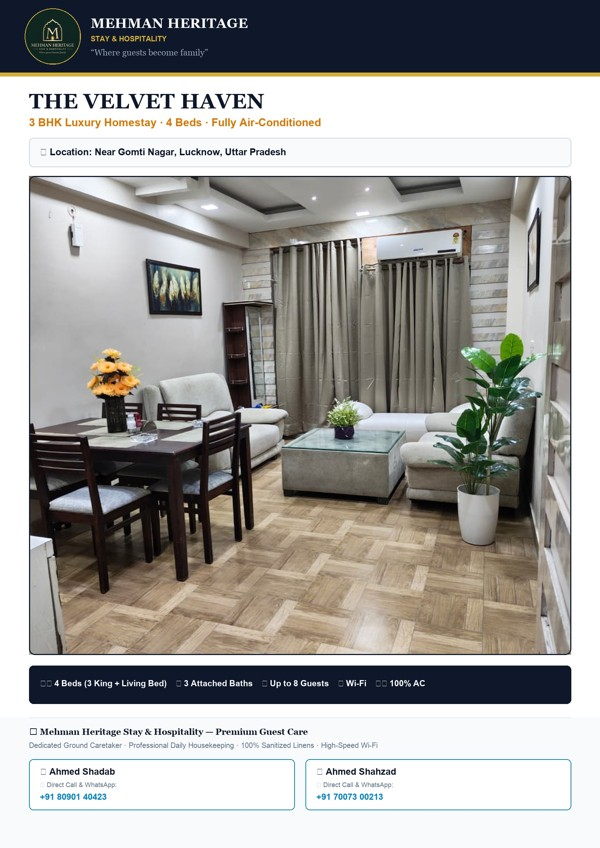
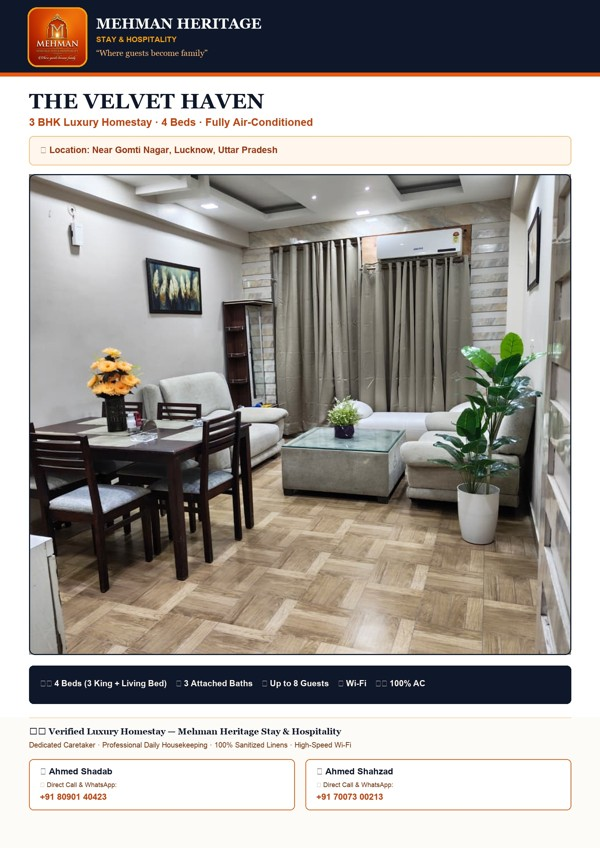
feat(partner): update Mehman Heritage to royal orange luxury brand identity inspired by mehmanghar.in

diff --git a/scripts/build_mehman_heritage_pdf.py b/scripts/build_mehman_heritage_pdf.py
@@ -1,6 +1,7 @@
 #!/usr/bin/env python3
 """
 Mehman Heritage Stay & Hospitality - Dedicated Branded Property PDF Engine
+Inspired by mehmanghar.in & User's Custom Royal Orange Brand Identity
 Property: The Velvet Haven | Luxury 3BHK Near Gomtinagar
 Hosts: Ahmed Shadab (+91 80901 40423), Ahmed Shahzad (+91 70073 00213)
 """
@@ -14,116 +15,116 @@ import img2pdf
 
 OUTPUT_DIR = '/Users/praveen/Developer/Partner Property PDFs/Mehman Heritage'
 PHOTOS_DIR = '/Users/praveen/Downloads/Property'
-LOGO_PATH = '/Users/praveen/Developer/airbnbmanager.github.io/assets/partners/mehman-heritage/mehman_heritage_logo.jpg'
+LOGO_PATH = '/Users/praveen/Developer/airbnbmanager.github.io/assets/partners/mehman-heritage/mehman_heritage_orange_logo.jpg'
 
 os.makedirs(OUTPUT_DIR, exist_ok=True)
 
 def create_mehman_cover_page():
-    W, H = 1654, 2338  # Standard A4 at 200 DPI
+    W, H = 1654, 2338  # Standard A4 at ~200 DPI
     im = Image.new('RGB', (W, H), '#FFFFFF')
     draw = ImageDraw.Draw(im)
 
-    # System Fonts
-    f_bold = '/System/Library/Fonts/Supplemental/Georgia Bold.ttf'
-    f_reg = '/System/Library/Fonts/Supplemental/Georgia.ttf'
+    # Fonts
+    f_georgia_b = '/System/Library/Fonts/Supplemental/Georgia Bold.ttf'
+    f_georgia = '/System/Library/Fonts/Supplemental/Georgia.ttf'
     f_arial_b = '/System/Library/Fonts/Supplemental/Arial Bold.ttf'
     f_arial = '/System/Library/Fonts/Supplemental/Arial.ttf'
 
-    font_brand = ImageFont.truetype(f_bold, 38)
-    font_brand_sub = ImageFont.truetype(f_arial_b, 20)
-    font_tagline = ImageFont.truetype(f_reg, 24)
-    font_title = ImageFont.truetype(f_bold, 58)
-    font_type = ImageFont.truetype(f_arial_b, 30)
-    font_loc = ImageFont.truetype(f_arial_b, 26)
+    font_brand = ImageFont.truetype(f_georgia_b, 40)
+    font_brand_sub = ImageFont.truetype(f_arial_b, 21)
+    font_tagline = ImageFont.truetype(f_georgia, 23)
+    font_title = ImageFont.truetype(f_georgia_b, 58)
+    font_type = ImageFont.truetype(f_arial_b, 29)
+    font_loc = ImageFont.truetype(f_arial_b, 25)
     font_specs = ImageFont.truetype(f_arial_b, 23)
-    font_contact_name = ImageFont.truetype(f_arial_b, 25)
+    font_contact_name = ImageFont.truetype(f_arial_b, 24)
     font_contact_num = ImageFont.truetype(f_arial_b, 24)
 
-    # 1. Top Luxury Header - Royal Deep Midnight / Charcoal Gradient
+    # 1. Top Header Bar (Deep Obsidian Midnight with Warm Heritage Accent)
     draw.rectangle([(0, 0), (W, 200)], fill='#0F172A')
 
-    # Paste Logo
+    # Paste Royal Orange Emblem Logo
     if os.path.exists(LOGO_PATH):
         try:
             logo = Image.open(LOGO_PATH).convert('RGB')
-            # Create a circular mask for luxury presentation
-            logo_size = 150
+            logo_size = 156
             logo = logo.resize((logo_size, logo_size), Image.Resampling.LANCZOS)
+            
+            # Rounded corner mask for the square orange logo
             mask = Image.new('L', (logo_size, logo_size), 0)
             mask_draw = ImageDraw.Draw(mask)
-            mask_draw.ellipse((0, 0, logo_size, logo_size), fill=255)
+            mask_draw.rounded_rectangle([(0, 0), (logo_size, logo_size)], radius=24, fill=255)
             
-            # Gold circle ring
-            draw.ellipse((68, 23, 72 + logo_size, 27 + logo_size), fill='#D4AF37')
-            im.paste(logo, (70, 25), mask)
+            # Gold luxury frame border
+            draw.rounded_rectangle([(76, 20), (84 + logo_size, 28 + logo_size)], radius=26, fill='#F59E0B')
+            im.paste(logo, (80, 24), mask)
         except Exception as e:
             print(f"Error pasting logo: {e}")
 
     # Header Brand Text
-    draw.text((250, 42), 'MEHMAN HERITAGE', fill='#F8FAFC', font=font_brand)
-    draw.text((250, 95), 'STAY & HOSPITALITY', fill='#D4AF37', font=font_brand_sub)
-    draw.text((250, 130), '“Where guests become family”', fill='#94A3B8', font=font_tagline)
+    draw.text((265, 42), 'MEHMAN HERITAGE', fill='#FFFFFF', font=font_brand)
+    draw.text((265, 96), 'STAY & HOSPITALITY', fill='#F59E0B', font=font_brand_sub)
+    draw.text((265, 132), '“Where guests become family”', fill='#FDBA74', font=font_tagline)
 
-    # 2. Rich Metallic Gold Divider Line
-    draw.rectangle([(0, 200), (W, 210)], fill='#D4AF37')
+    # 2. Rich Metallic Saffron-Gold Divider Line
+    draw.rectangle([(0, 200), (W, 210)], fill='#EA580C')
 
     # 3. Property Title & Type
     draw.text((80, 245), 'THE VELVET HAVEN', fill='#0F172A', font=font_title)
-    draw.text((80, 320), '3 BHK Luxury Homestay · 4 Beds · Fully Air-Conditioned', fill='#D97706', font=font_type)
+    draw.text((80, 320), '3 BHK Luxury Homestay · 4 Beds · Fully Air-Conditioned', fill='#C2410C', font=font_type)
 
     # 4. Location Callout Badge
-    draw.rounded_rectangle([(80, 380), (W - 80, 460)], radius=12, fill='#F8FAFC', outline='#CBD5E1', width=2)
+    draw.rounded_rectangle([(80, 375), (W - 80, 455)], radius=12, fill='#FFF7ED', outline='#FDBA74', width=2)
     loc_text = "📍 Location: Near Gomti Nagar, Lucknow, Uttar Pradesh"
-    draw.text((110, 404), loc_text, fill='#0F172A', font=font_loc)
+    draw.text((110, 399), loc_text, fill='#9A3412', font=font_loc)
 
-    # 5. Hero Photo Frame (Index 47 or best living room shot)
+    # 5. Hero Photo Frame
     hero_path = os.path.join(PHOTOS_DIR, 'WhatsApp Image 2026-11-28 at 12.52.27 AM.jpeg')
     if not os.path.exists(hero_path):
-        # Fallback to first image
         hero_path = sorted(glob.glob(os.path.join(PHOTOS_DIR, '*.*')))[0]
 
     target_w = W - 160
-    target_h = 1320
+    target_h = 1325
     if os.path.exists(hero_path):
         try:
             hero = Image.open(hero_path).convert('RGB')
             hero_fitted = ImageOps.fit(hero, (target_w, target_h), Image.Resampling.LANCZOS)
-            im.paste(hero_fitted, (80, 485))
-            draw.rounded_rectangle([(80, 485), (80 + target_w, 485 + target_h)], radius=16, outline='#0F172A', width=3)
+            im.paste(hero_fitted, (80, 480))
+            draw.rounded_rectangle([(80, 480), (80 + target_w, 480 + target_h)], radius=16, outline='#0F172A', width=3)
         except Exception as e:
             print(f"Error inserting hero photo: {e}")
 
-    # 6. Specs & Amenity Highlights Bar
+    # 6. Specs & Amenity Highlights Bar (Mehman Heritage Signature Bar)
     box_y = 1835
     draw.rounded_rectangle([(80, box_y), (W - 80, box_y + 105)], radius=12, fill='#0F172A')
     specs_text = "🛏 4 Beds (3 King + Living Bed)    🚿 3 Attached Baths    👥 Up to 8 Guests    📶 Wi-Fi    ❄ 100% AC"
-    draw.text((110, box_y + 36), specs_text, fill='#F8FAFC', font=font_specs)
+    draw.text((110, box_y + 36), specs_text, fill='#FFF7ED', font=font_specs)
 
-    # 7. Luxury Partner Footer & Contact Card
+    # 7. Luxury Partner Footer & Contact Cards
     foot_y = H - 360
-    draw.rectangle([(0, foot_y), (W, H)], fill='#F8FAFC')
-    draw.line([(80, foot_y), (W - 80, foot_y)], fill='#E2E8F0', width=2)
+    draw.rectangle([(0, foot_y), (W, H)], fill='#FDFBF7')
+    draw.line([(80, foot_y), (W - 80, foot_y)], fill='#FED7AA', width=2)
 
     # Assurance line
-    draw.text((80, foot_y + 25), '🌟 Mehman Heritage Stay & Hospitality — Premium Guest Care', fill='#0F172A', font=ImageFont.truetype(f_bold, 24))
-    draw.text((80, foot_y + 65), 'Dedicated Ground Caretaker · Professional Daily Housekeeping · 100% Sanitized Linens · High-Speed Wi-Fi', fill='#64748B', font=ImageFont.truetype(f_arial, 20))
+    draw.text((80, foot_y + 24), '🛡 Verified Luxury Homestay — Mehman Heritage Stay & Hospitality', fill='#0F172A', font=ImageFont.truetype(f_georgia_b, 24))
+    draw.text((80, foot_y + 64), 'Dedicated Caretaker · Professional Daily Housekeeping · 100% Sanitized Linens · High-Speed Wi-Fi', fill='#78350F', font=ImageFont.truetype(f_arial, 20))
 
-    # Host Direct Booking Contact Cards (Two-column layout)
+    # Host Direct Booking Contact Cards (Warm Orange & Terracotta Borders)
     card_y = foot_y + 115
     card_w = (W - 160 - 30) // 2
 
     # Card 1: Ahmed Shadab
-    draw.rounded_rectangle([(80, card_y), (80 + card_w, card_y + 140)], radius=12, fill='#FFFFFF', outline='#0284C7', width=2)
+    draw.rounded_rectangle([(80, card_y), (80 + card_w, card_y + 140)], radius=12, fill='#FFFFFF', outline='#EA580C', width=2)
     draw.text((110, card_y + 20), '👤 Ahmed Shadab', fill='#0F172A', font=font_contact_name)
-    draw.text((110, card_y + 60), '📞 Direct Call & WhatsApp:', fill='#64748B', font=ImageFont.truetype(f_arial, 18))
-    draw.text((110, card_y + 90), '+91 80901 40423', fill='#0284C7', font=font_contact_num)
+    draw.text((110, card_y + 60), '📞 Direct Call & WhatsApp:', fill='#78350F', font=ImageFont.truetype(f_arial, 18))
+    draw.text((110, card_y + 90), '+91 80901 40423', fill='#C2410C', font=font_contact_num)
 
     # Card 2: Ahmed Shahzad
     c2_x = 80 + card_w + 30
-    draw.rounded_rectangle([(c2_x, card_y), (c2_x + card_w, card_y + 140)], radius=12, fill='#FFFFFF', outline='#0284C7', width=2)
+    draw.rounded_rectangle([(c2_x, card_y), (c2_x + card_w, card_y + 140)], radius=12, fill='#FFFFFF', outline='#EA580C', width=2)
     draw.text((c2_x + 30, card_y + 20), '👤 Ahmed Shahzad', fill='#0F172A', font=font_contact_name)
-    draw.text((c2_x + 30, card_y + 60), '📞 Direct Call & WhatsApp:', fill='#64748B', font=ImageFont.truetype(f_arial, 18))
-    draw.text((c2_x + 30, card_y + 90), '+91 70073 00213', fill='#0284C7', font=font_contact_num)
+    draw.text((c2_x + 30, card_y + 60), '📞 Direct Call & WhatsApp:', fill='#78350F', font=ImageFont.truetype(f_arial, 18))
+    draw.text((c2_x + 30, card_y + 90), '+91 70073 00213', fill='#C2410C', font=font_contact_num)
 
     cover_file = os.path.join(OUTPUT_DIR, '00_mehman_cover.jpg')
     im.save(cover_file, quality=95)
@@ -134,13 +135,9 @@ def build_pdf():
     t0 = time.time()
     cover_page = create_mehman_cover_page()
 
-    # Collect property photos
     all_photos = sorted(glob.glob(os.path.join(PHOTOS_DIR, '*.*')))
-    
-    # We put the cover page first, then the property photos
-    # Avoid duplicate of hero photo if needed, or include all
     all_pages = [cover_page] + all_photos
-    print(f"✓ Total pages to compile: {len(all_pages)} (1 Branded Cover + {len(all_photos)} Property Photos)")
+    print(f"✓ Total pages: {len(all_pages)} (1 Cover + {len(all_photos)} Photos)")
 
     output_pdf = os.path.join(OUTPUT_DIR, 'The Velvet Haven - Luxury 3 BHK Near Gomti Nagar (Mehman Heritage).pdf')
 
@@ -151,8 +148,8 @@ def build_pdf():
         f.write(img2pdf.convert(all_pages, layout_fun=layout_fun))
 
     mb = os.path.getsize(output_pdf) / (1024 * 1024)
-    print(f"🎉 SUCCESS: Generated '{output_pdf}'")
-    print(f"   Size: {mb:.2f} MB | Total Pages: {len(all_pages)} | Completed in {time.time()-t0:.2f}s")
+    print(f"🎉 SUCCESS: Re-compiled PDF at '{output_pdf}'")
+    print(f"   Size: {mb:.2f} MB | Total Pages: {len(all_pages)} | Time: {time.time()-t0:.2f}s")
     return output_pdf, mb, len(all_pages)
 
 if __name__ == '__main__':
